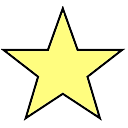
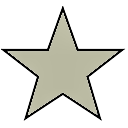
Change the favorite_item_hint from light yellow to grey

Changed region(s): [[0.0625, 0.0938, 0.9062, 0.9062]]

diff --git a/README.md b/README.md
@@ -10,8 +10,6 @@
 
 -Payment steps layout and functionality
 
--Favorite-star layout and color (more visible when clicked, maybe lighter color when hovered)
-
 -iMat logo as home button
 
 -Back buttons (safe exploration)
